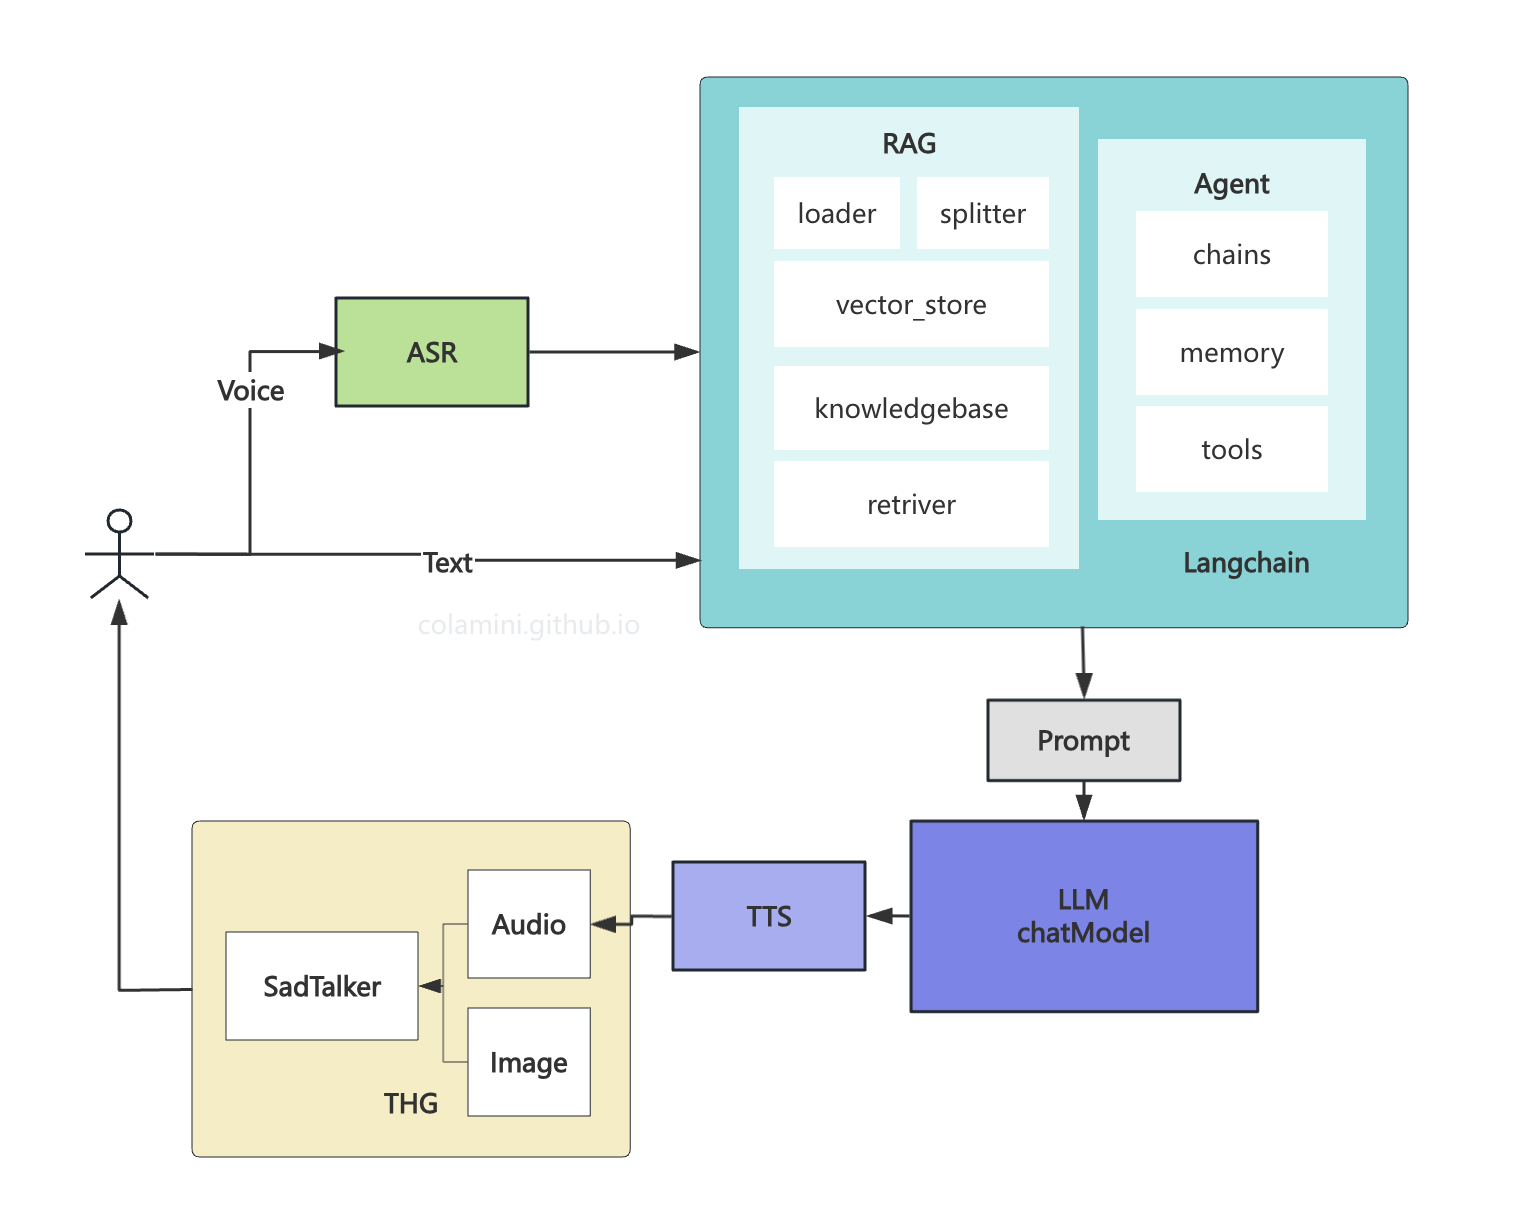
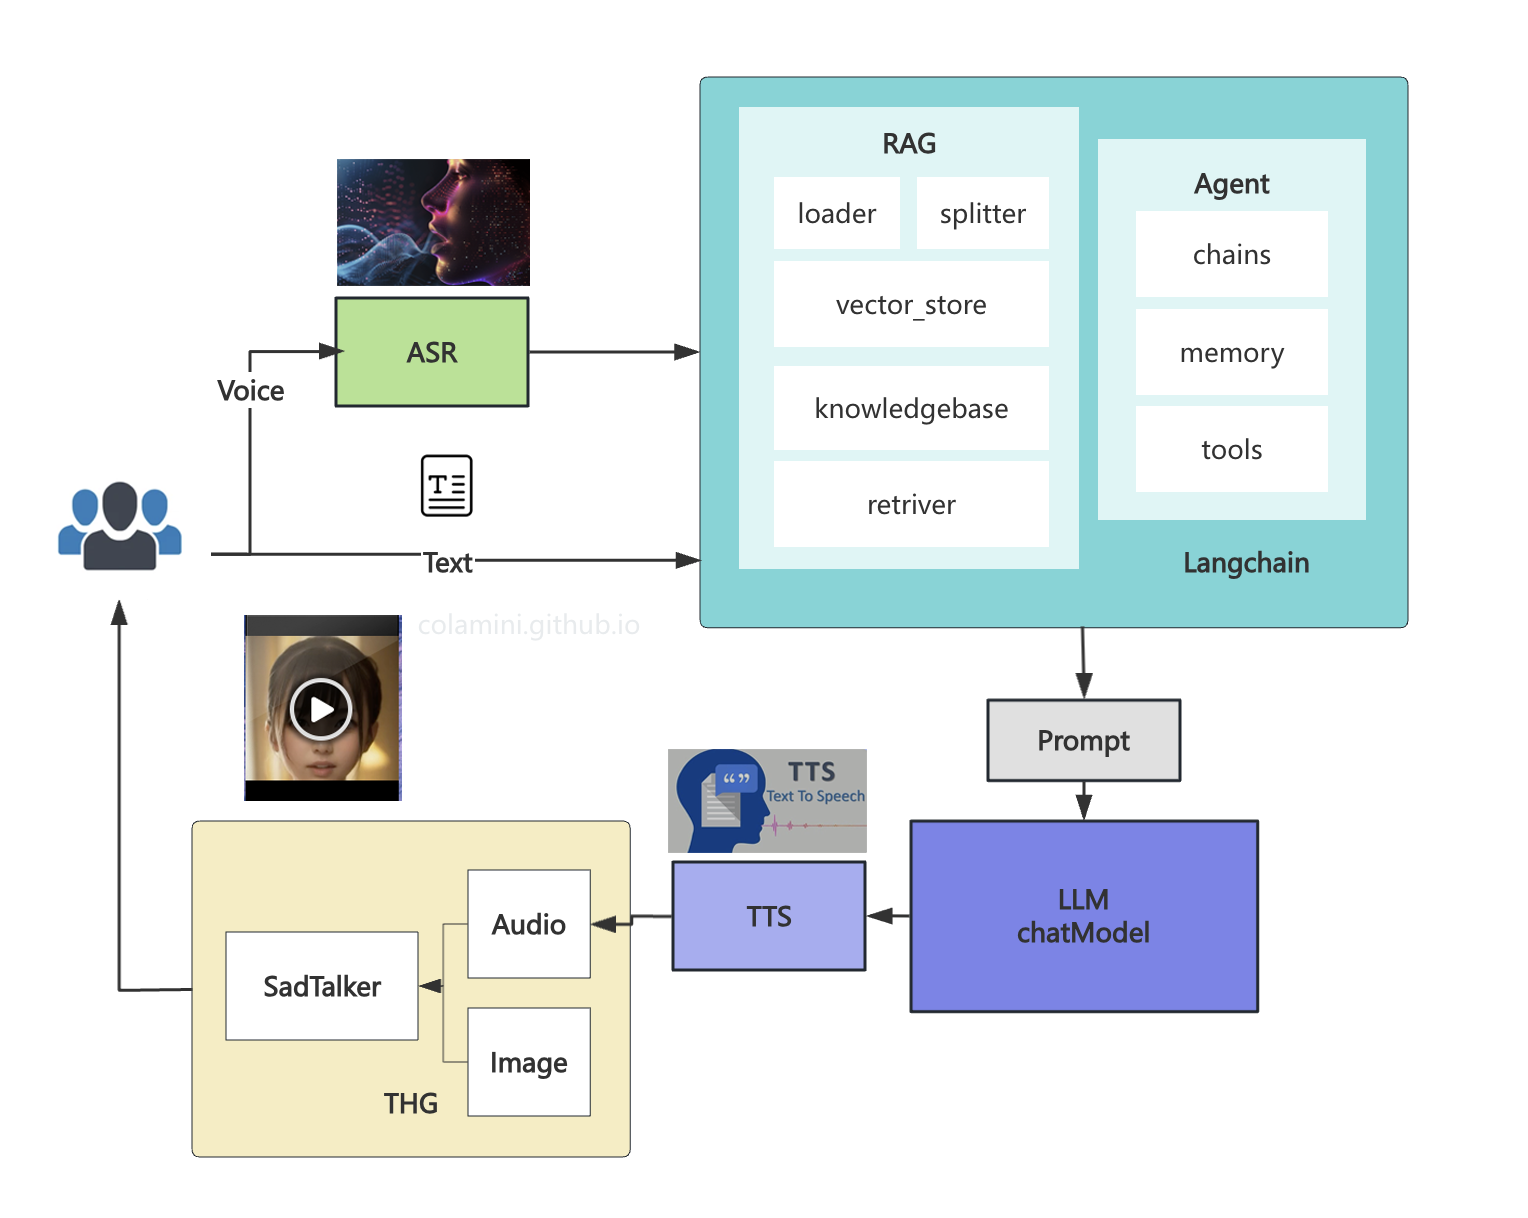
update: update pic

diff --git a/_posts/工作总结/2024-09-25-基于RAG技术的智能对话系统.md b/_posts/工作总结/2024-09-25-基于RAG技术的智能对话系统.md
@@ -8,8 +8,10 @@ pin: true
 ---
 ### 1. **写在前面**
  在教育领域，个性化学习的需求日益增长，智能对话系统通过`自然语言处理`、`语音识别`、`语音合成`和 `LLM` 的协同应用，正在改变传统教学模式。
+
+  <img src="/assets/imgs/ai/work-summary/langchain-struct.png" width="600"/>
  
- 本项目构建了一个综合智能对话系统，利用 `TTS` 和 `ASR` 实现高质量的语音交互，`THG` 赋予虚拟角色生动的表情。同时，加入 `RAG` 技术结合`知识库`，确保系统能够准确理解用户需求，`LLM Agent` 技术则提供丰富的信息和动态响应。
+ 本项目基于`LangChain` 框架开发，加入 `RAG` 技术结合`向量数据库`，确保系统能够准确理解用户需求，`LLM Agent` 技术则提供丰富的信息和动态响应。
 
 
 ### 2. **智能对话系统技术概述**
@@ -25,7 +27,7 @@ pin: true
 
 在 `LangChain` 中，`RAG`的技术实现如下图所示 ⬇ 
 
-  <img src="/assets/imgs/ai/langchain/langchain-rag.png" width="300"/>
+  <img src="/assets/imgs/ai/langchain/langchain-rag.png" width="250"/>
 
   相关细节请移步 [LangChain-RAG详细介绍](https://colamini.github.io/posts/LangChain%E6%96%87%E6%9C%AC%E6%A3%80%E7%B4%A2%E5%A2%9E%E5%BC%BA-RAG/)
 
@@ -37,7 +39,9 @@ pin: true
    
   <img src="/assets/imgs/ai/langchain/agent_chain01.png" width="400"/>
 
-    
+  在代码实现，`Agent`更加强大，但是开发过程也更加复杂。如下图所示 ⬇
+
+  <img src="/assets/imgs/ai/langchain/agent_chain02.png" width="400"/>
 
    - **向量数据库** 
    在 `RAG（Retrieval-Augmented Generation`）中，向量数据库用于存储和检索经过嵌入处理的文档向量，以便快速找到与用户查询相关的内容。
